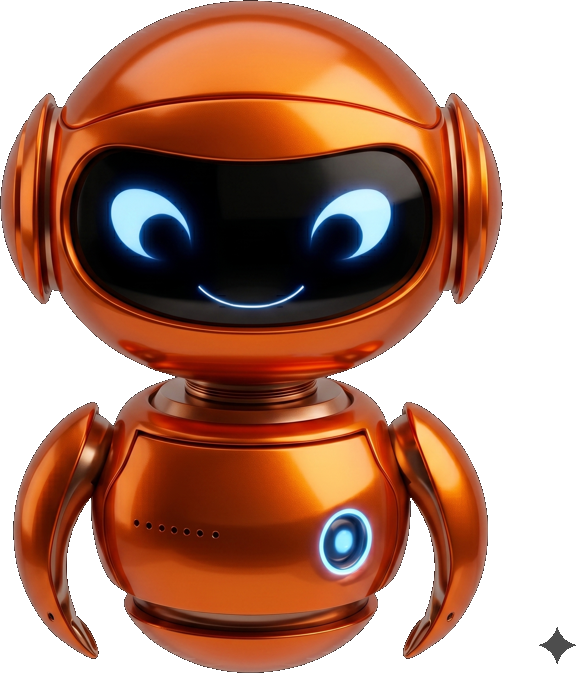
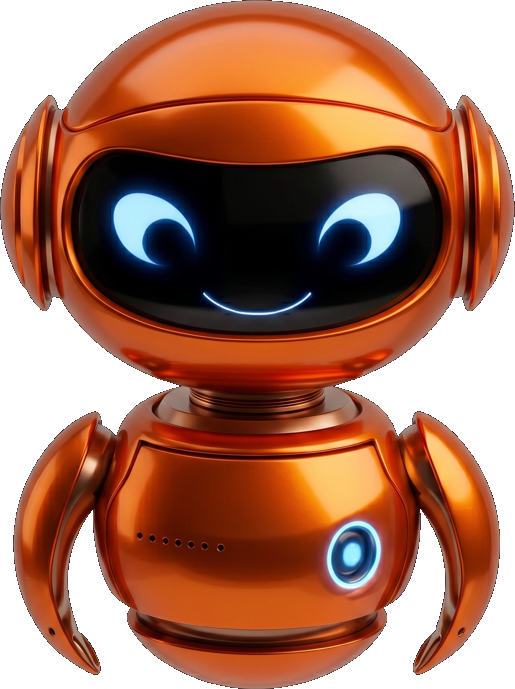
polish(landing): remove eye-blink + gemini star; use cropped head for chat corner

diff --git a/src/pages/HomePage.tsx b/src/pages/HomePage.tsx
@@ -1558,14 +1558,6 @@ export default function HomePage() {
                   className="relative w-[26rem] xl:w-[32rem]"
                 >
                   <img src="/mascot.png" alt="Asistente IA de Klosify" className="w-full drop-shadow-[0_25px_60px_rgba(249,115,22,0.3)] select-none" draggable={false} />
-                  {/* eye blink (eyelid sweeps over the eyes) */}
-                  <motion.div
-                    aria-hidden
-                    className="absolute rounded-[50%]"
-                    style={{ top: "12%", left: "22%", width: "56%", height: "11%", background: "#070809", transformOrigin: "top" }}
-                    animate={{ scaleY: [0, 0, 1, 0, 0] }}
-                    transition={{ duration: 4.2, times: [0, 0.9, 0.945, 0.99, 1], repeat: Infinity, ease: "easeInOut" }}
-                  />
                 </motion.div>
               </motion.div>
             </div>
@@ -2045,9 +2037,9 @@ export default function HomePage() {
           <motion.div
             animate={{ y: [0, -6, 0] }}
             transition={{ duration: 3, repeat: Infinity, ease: "easeInOut" }}
-            className="relative h-16 w-16 overflow-hidden rounded-full bg-slate-950 ring-2 ring-orange-500/50 shadow-2xl"
+            className="relative h-16 w-16 overflow-hidden rounded-full bg-gradient-to-b from-slate-800 to-slate-950 ring-2 ring-orange-500/50 shadow-2xl"
           >
-            <img src="/mascot.png" alt="Asistente IA" className="absolute -top-1 left-1/2 w-[150%] max-w-none -translate-x-1/2 select-none" draggable={false} />
+            <img src="/mascot-head.png" alt="Asistente IA" className="absolute inset-0 h-full w-full object-cover object-top scale-[1.15] select-none" draggable={false} />
           </motion.div>
           <span className="absolute right-1 top-1 h-3 w-3 rounded-full bg-green-400 ring-2 ring-slate-950 animate-pulse" />
         </Link>